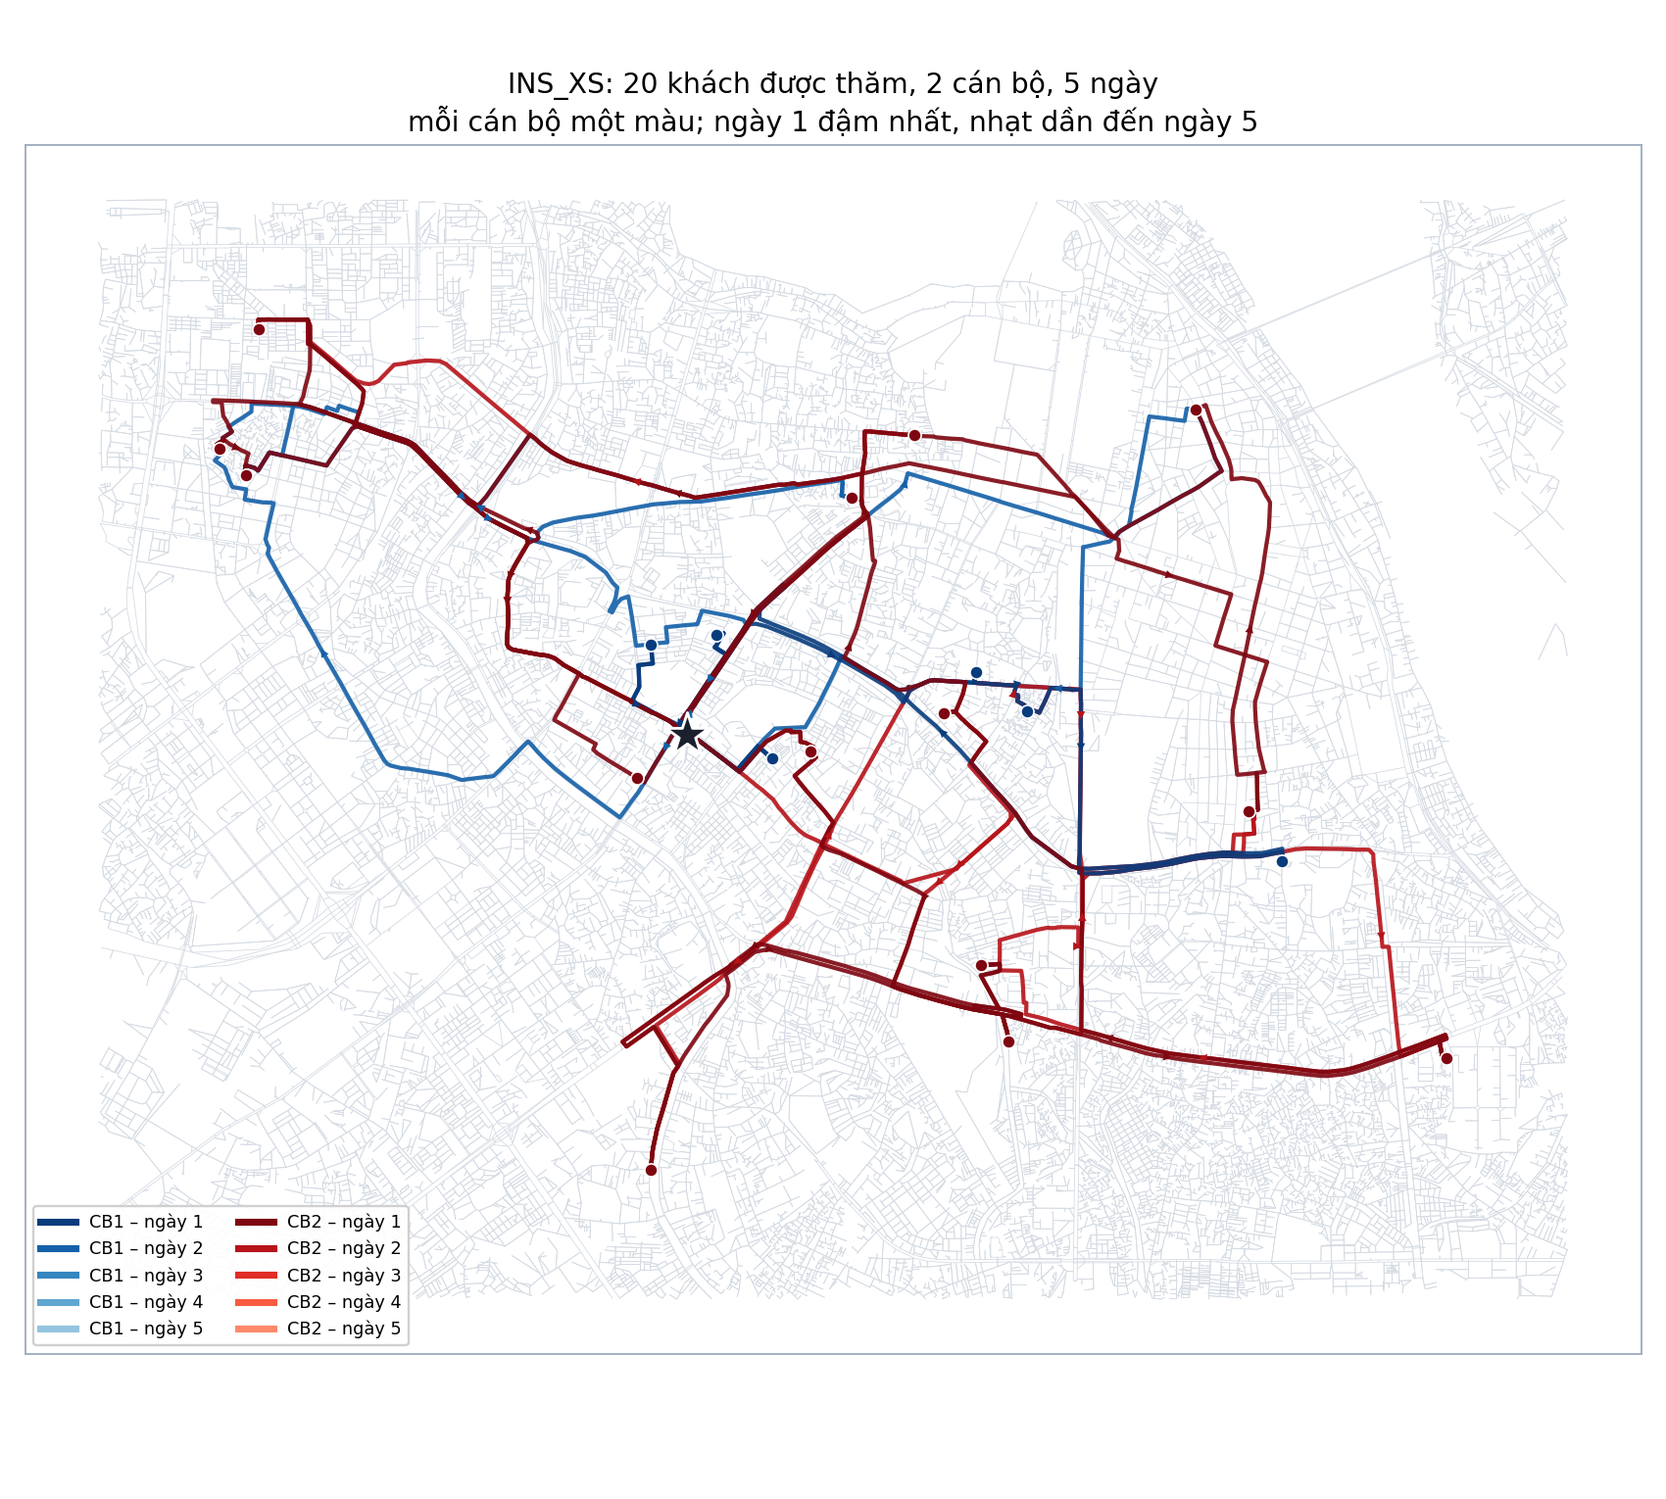
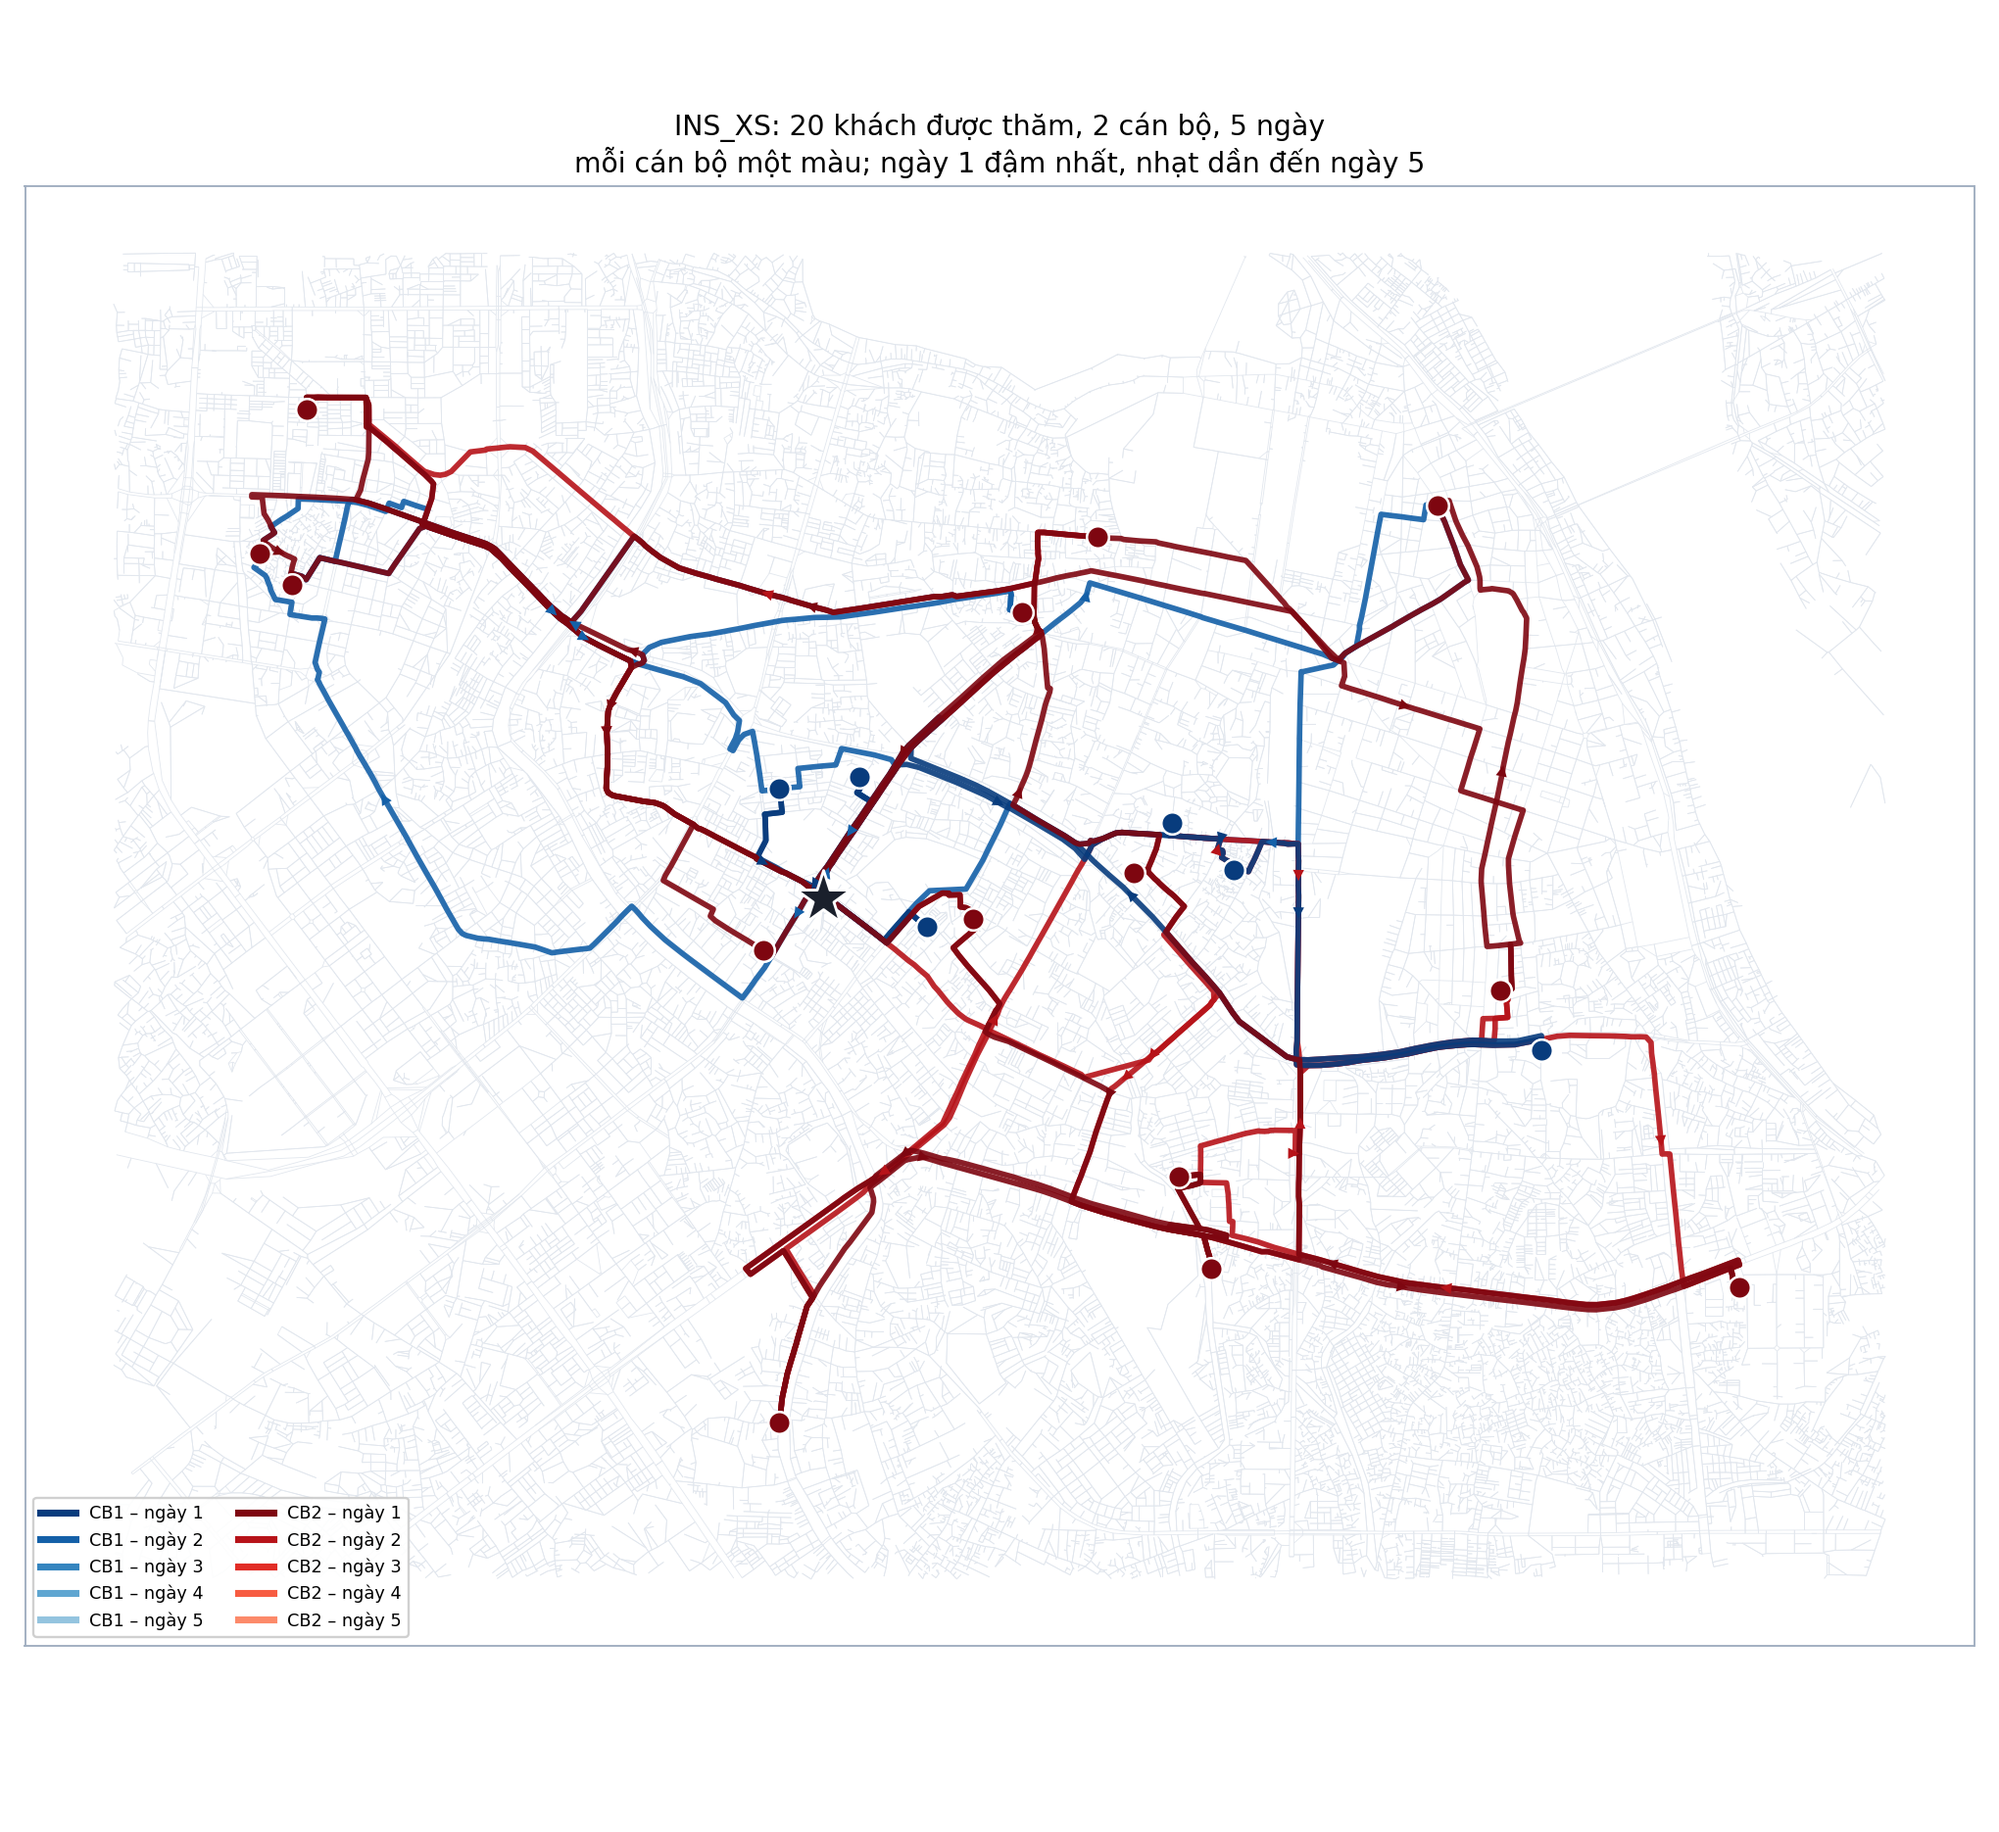
Make route maps easier to read and add INS_M (3 officers) figures
Larger customer markers, thicker routes, lighter road network and a bigger overview map.

diff --git a/core/plot_v3_plan.py b/core/plot_v3_plan.py
@@ -29,7 +29,7 @@ FIGURES = ROOT / "figures"
 FAMILIES = ["Blues", "Reds", "Purples", "YlOrBr", "Greens"]
 FAMILY_NAMES = ["xanh", "đỏ", "tím", "vàng", "lục"]
 GROUP_COLORS = {2: "#68d391", 3: "#f6e05e", 4: "#ed8936", 5: "#c53030"}
-ROAD = "#d5dbe3"
+ROAD = "#e2e7ee"
 
 
 def shade(k, t, H):
@@ -88,7 +88,7 @@ def draw_road(ax, nodes, shown):
 
 
 def draw_depot(ax, points):
-    ax.scatter(points.lon["CN01"], points.lat["CN01"], marker="*", s=380,
+    ax.scatter(points.lon["CN01"], points.lat["CN01"], marker="*", s=600,
                color="#1a202c", edgecolor="white", lw=1.2, zorder=7)
 
 
@@ -120,7 +120,7 @@ class Plotter:
         for (k, t), stops in self.plan.groupby(["officer", "day"]):
             yield int(k), int(t), stops.sort_values("stop_order")
 
-    def draw_route(self, ax, k, t, stops, lw=1.8):
+    def draw_route(self, ax, k, t, stops, lw=2.0, size=55):
         seq = stops.location_id.tolist()
         color = shade(k, t, self.H)
         segments = [self.road_path(a, b) for a, b in zip(seq, seq[1:])]
@@ -133,10 +133,10 @@ class Plotter:
                 (x0, y0), (x1, y1) = seg[max(m - 1, 0)], seg[m]
                 ax.annotate("", xy=(x1, y1), xytext=(x0, y0), zorder=4,
                             arrowprops=dict(arrowstyle="-|>", color=color, lw=0,
-                                            mutation_scale=9))
+                                            mutation_scale=12))
         visited = [x for x in seq if x != "CN01"]
-        ax.scatter(self.points.lon[visited], self.points.lat[visited], s=30,
-                   color=[color], edgecolor="white", lw=0.6, zorder=5)
+        ax.scatter(self.points.lon[visited], self.points.lat[visited], s=size,
+                   color=[color], edgecolor="white", lw=1.0, zorder=5)
 
     def legend(self, ax, officers=None, days=None, **kw):
         officers = officers or range(1, self.K + 1)
@@ -203,11 +203,11 @@ class Plotter:
         self.save(fig, "graph")
 
     def figure_overview(self):
-        fig, ax = plt.subplots(figsize=(10, 9))
+        fig, ax = plt.subplots(figsize=(12, 11))
         setup(ax, self.points)
         draw_road(ax, self.nodes, self.shown)
         for k, t, stops in sorted(self.routes(), key=lambda r: -r[1]):
-            self.draw_route(ax, k, t, stops)
+            self.draw_route(ax, k, t, stops, lw=2.4, size=90)
         draw_depot(ax, self.points)
         self.legend(ax, loc="lower left")
         ax.set_title(f"{self.title}\nmỗi cán bộ một màu; ngày 1 đậm nhất, nhạt dần đến "
